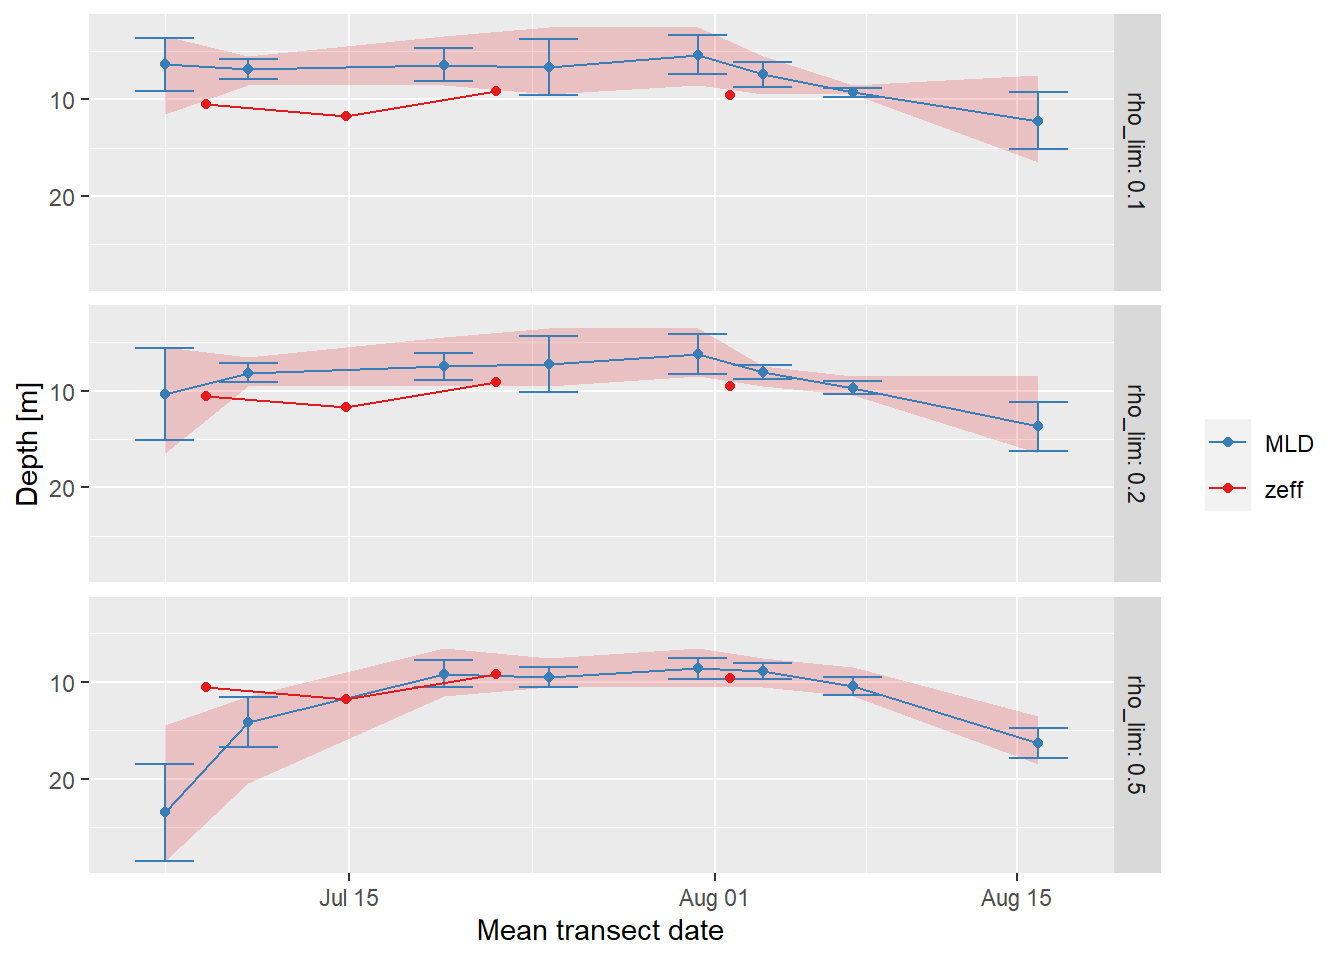
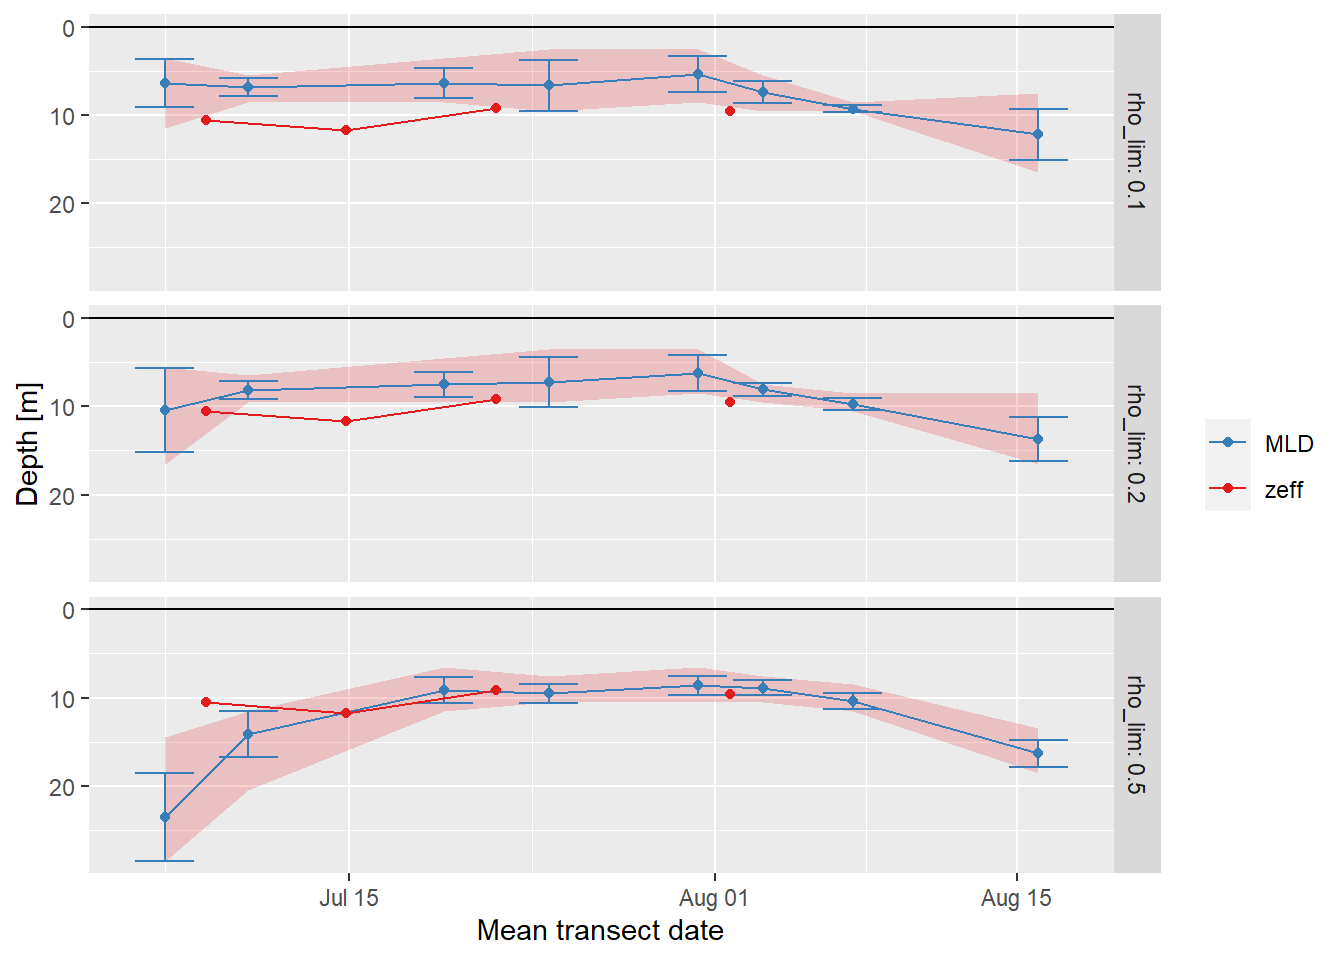
Build site.

diff --git a/docs/BloomSail_MLD.html b/docs/BloomSail_MLD.html
@@ -560,10 +560,10 @@ This reproducible <a href="http://rmarkdown.rstudio.com">R Markdown</a> analysis
 <div class="panel panel-default">
 <div class="panel-heading">
 <p class="panel-title">
-<a data-toggle="collapse" data-parent="#workflowr-checks" href="#strongRepositoryversionstrongahrefhttpsgithubcomjensdanielmuellerBloomSailtree39951b29aea0ca7c41cecdbf291f7b19070ea79ctargetblank39951b2a"> <span class="glyphicon glyphicon-ok text-success" aria-hidden="true"></span> <strong>Repository version:</strong> <a href="https://github.com/jens-daniel-mueller/BloomSail/tree/39951b29aea0ca7c41cecdbf291f7b19070ea79c" target="_blank">39951b2</a> </a>
+<a data-toggle="collapse" data-parent="#workflowr-checks" href="#strongRepositoryversionstrongahrefhttpsgithubcomjensdanielmuellerBloomSailtreeb13cfcd64f114486cafc751a5561ee3dfa1b1e17targetblankb13cfcda"> <span class="glyphicon glyphicon-ok text-success" aria-hidden="true"></span> <strong>Repository version:</strong> <a href="https://github.com/jens-daniel-mueller/BloomSail/tree/b13cfcd64f114486cafc751a5561ee3dfa1b1e17" target="_blank">b13cfcd</a> </a>
 </p>
 </div>
[2 lines of base64/hex data omitted]
 <div class="panel-body">
 <p>
 Great! You are using Git for version control. Tracking code development and connecting the code version to the results is critical for reproducibility. The version displayed above was the version of the Git repository at the time these results were generated. <br><br> Note that you need to be careful to ensure that all relevant files for the analysis have been committed to Git prior to generating the results (you can use <code>wflow_publish</code> or <code>wflow_git_commit</code>). workflowr only checks the R Markdown file, but you know if there are other scripts or data files that it depends on. Below is the status of the Git repository when the results were generated:
@@ -761,6 +761,7 @@ rm(date_grid)
 
 df %&gt;% 
   ggplot()+
+  geom_hline(yintercept = 0)+
   geom_ribbon(aes(date_time_ID, ymin = min, ymax = max, fill=&quot;MLD&quot;), alpha = 0.2)+
   geom_path(aes(date_time_ID, mean, col=&quot;MLD&quot;))+
   geom_errorbar(aes(date_time_ID, ymin = mean-sd, ymax = mean+sd, col=&quot;MLD&quot;))+
@@ -815,7 +816,7 @@ p_iNCPcum &lt;- df_cum %&gt;%
 
 
 (p_iNCP / p_iNCPcum)+
-  plot_layout(guides = &#39;collect&#39;)</code></pre>
+  plot_layout(guides = &#39;collect&#39;, heights = c(1, 2))</code></pre>
 <p><img src="figure/BloomSail_MLD.Rmd/plot_integrated_NCP_timeseries-1.png" width="672" style="display: block; margin: auto;" /></p>
 <pre class="r"><code>rm(p_iNCP, p_iNCPcum)</code></pre>
 <br>
